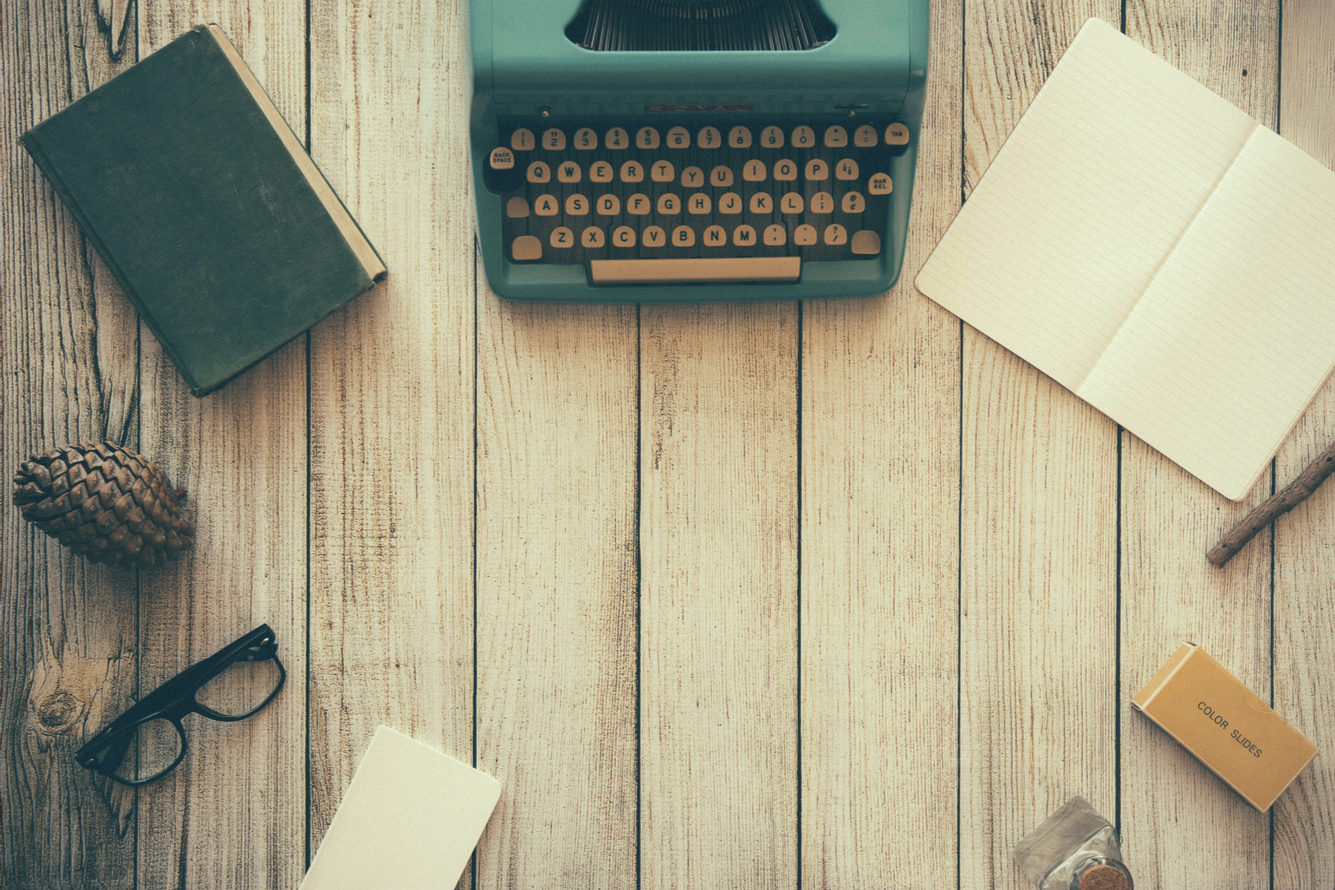
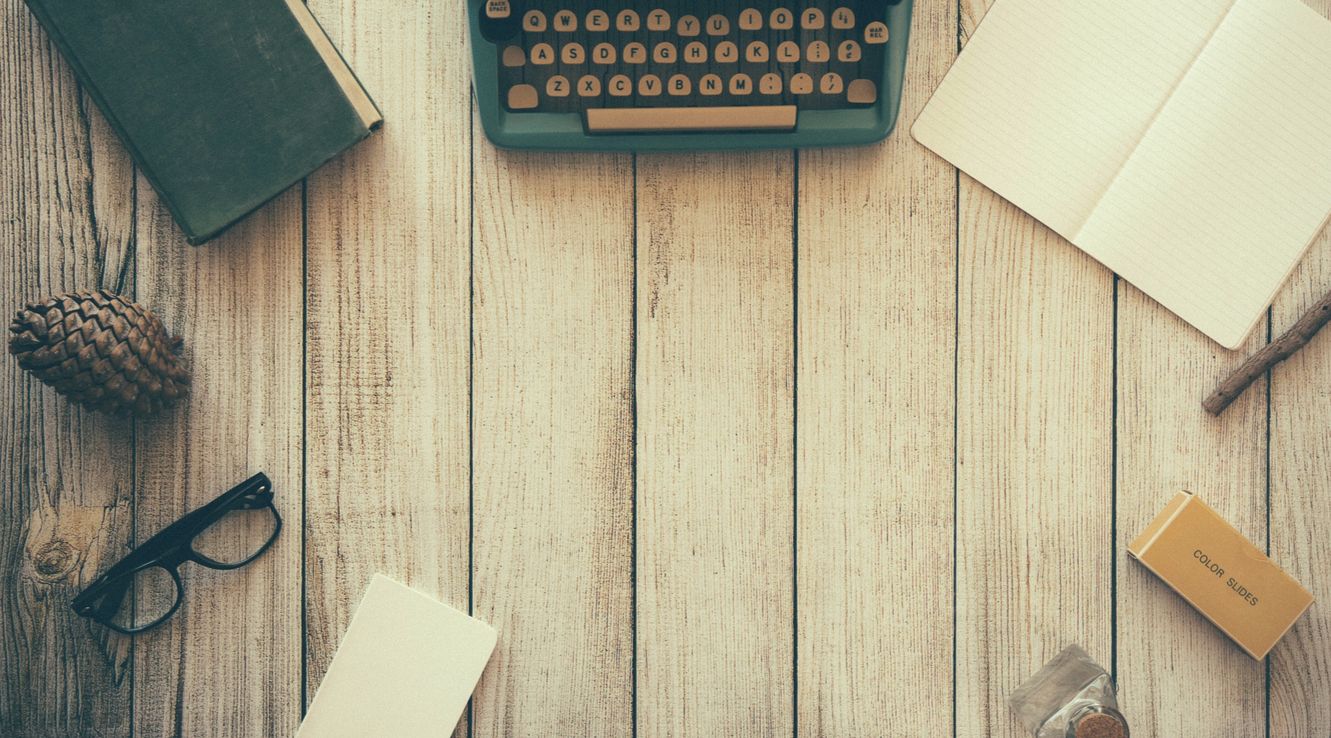
added links to move portfolio to top and adjusted size of background image

diff --git a/index.html b/index.html
@@ -7,6 +7,7 @@
         <link href="assets/css/style.css" rel="stylesheet" type="text/css">
         <link rel="stylesheet" href="https://stackpath.bootstrapcdn.com/bootstrap/4.3.1/css/bootstrap.min.css" integrity="sha384-ggOyR0iXCbMQv3Xipma34MD+dH/1fQ784/j6cY/iJTQUOhcWr7x9JvoRxT2MZw1T" crossorigin="anonymous">
         <script src="https://kit.fontawesome.com/4439e3b362.js" crossorigin="anonymous"></script>
+        <link rel="stylesheet" href="https://cdnjs.cloudflare.com/ajax/libs/animate.css/3.7.2/animate.min.css">
     </head>
 
     <body>
@@ -42,7 +43,6 @@
             </div>
         </nav>
         <header id="home" class="row header align-items-center">
-           
             <div class="col-sm-8 intro">
                 <h1>Jamie Kook</h1>
                 <div class="line"></div>
@@ -51,55 +51,56 @@
                 <h5>kookjc6@gmail.com</h5>
                 <h5><a target="_blank" href="https://www.linkedin.com/in/jamie-kook-b7816770/">LinkedIn</a> | <a target="_blank" href="https://github.com/JamieKook">Github</a> </h5>
                 <div class="buttons m-2">
-                    <button><a href="/assets/Jamie Kook Resume.pdf" download="JamieKookResume">Download Resume</a></button>
-                    <!-- <button>Contact Me</button> -->
+                <button><a href="/assets/Jamie Kook Resume.pdf" download="JamieKookResume">Download Resume</a></button>
+                <!-- <button>Contact Me</button> -->
                 </div>      
             </div>
             <div class="col-sm-4 d-flex align-items-center justify-content-center"><img class="img-fluid headshot" src="assets/imgs/headshot.jpg"></div>
         </header>
-
         <div class="section about row">
             <div class="overlay d-flex align-items-center">
                 <div class="container">
                     <p>Web Developer coming from a background in science education and research. Experienced in creating a <a href="http://www.surgeuniverse.com/" target="_blank">web-hosted educational game</a>  that used theory and data-driven feedback in its effectiveness and clear presentation of information. Recently earned a certificate in Full-Stack Web Development from Vanderbilt University, acquiring a functional knowledge of HTML, CSS, Javascript, React.js, Node.js, and more. A great collaborator and communicator, having used my organizational and critical thinking skills to move projects forward both as a leader and as a team member. A quick learner who is always eager to tackle difficult problems and enjoys puzzling through a new challenge. Looking forward to developing new web technologies, utilizing my background and technical skills, and adapting along the way.</p>
+                    <button class="btn btn-light"><a href="#portfolio">Learn More</a></button>
                 </div>
             </div>
         </div>
+      
 
         <div class="section" id="portfolio">
             <h1>Portfolio</h1>
             <div id="port-desk">
                 <div class="row" id="port-paper">
                     <div class="col-2 d-flex align-items-center">
-                        <button class="btn switch"><i class="fas fa-chevron-left"></i></button>
+                        <button id="newProjects" class="btn switch"><i class="fas fa-chevron-left"></i></button>
                     </div>
                     <div class="col-8 projectContainer">
                         <div class="border-bottom border-dark m-2" id="project1">
                             <h2><a class= "link" target="_blank" href="https://jamiekook.github.io/WeatherDashboard/"><span class="title">Weather Dashboard</span></a></h2>
                             <i class="fas fa-cloud-sun"></i>
                             <p class="description m-0">Find a location's current weather and 5-day forecast.</p>
-                            <button id="weather" class="btn btn-dark m-1 portbtn">Learn More</button>
+                            <button id="weather" class="btn btn-dark m-1 portbtn"><a href="#portfolio" class="text-white">Learn More</a></button>
                         </div>
                         <div class="border-bottom border-dark m-2" id="project2">
                             <h2><a class= "link" target="_blank" href="https://jamiekook.github.io/DayPlanner/"><span class="title">Day Planner</span></a></h2>
                             <i class="fas fa-calendar-alt"></i>
                             <p class="description m-0">Plan out your work day.</p>
-                            <button id="planner" class="btn btn-dark m-1 portbtn">Learn More</button>
+                            <button id="planner" class="btn btn-dark m-1 portbtn"><a href="#portfolio" class="text-white">Learn More</a></button>
                         </div>
                         <div class="border-bottom border-dark m-2" id="project3">
                             <h2><a class= "link" target="_blank" href="https://jamiekook.github.io/TimedQuiz/"><span class="title">Timed Quiz</span></a></h2>
                             <i class="fas fa-brain"></i>
                             <p class="description m-0">Test your trivia knowledge</p>
-                            <button id="quiz" class="btn btn-dark m-1 portbtn">Learn More</button>
+                            <button id="quiz" class="btn btn-dark m-1 portbtn"><a href="#portfolio" class="text-white">Learn More</a></button>
                         </div>
                     </div>
                     <div class="col-2 d-flex align-items-center">
-                        <button class="btn switch"><i class="fas fa-chevron-right"></i></button>
+                        <button id="oldProjects" class="btn switch"><i class="fas fa-chevron-right"></i></button>
                     </div>
                     
                 </div>
                 <div id="port-more" hidden>
-                    <div id="port-cont" class="container p-5 text-left">
+                    <div id="port-cont" class="container p-5 text-left animated slideInUp">
                         <h2 id="port-title"></h2>
                         <p id="port-descript"></p>
                         <p id="port-role"></p>
@@ -108,7 +109,7 @@
                         <div class="text-center buttongroup m-5">
                             <button class="btn btn-dark m-1"><a target="_blank" href="" id="port-linkapp">View the application</a></button>
                             <button class="btn btn-dark m-1"><a target="_blank" href="" id="port-linkhub">View the repository</a></button>
-                            <button class="btn btn-dark m-1" id="back">Back to Portfolio</button>
+                            <button class="btn btn-dark m-1" id="back"><a href="#portfolio">Back to Portfolio</a></button>
                         </div>
                     </div>
                 </div>

diff --git a/assets/script.js b/assets/script.js
@@ -8,14 +8,12 @@ $('.popover-dismiss').popover({
 
 $(".portbtn").on("click", function(){
   $("#port-paper").hide();
-  $("#port-more").removeAttr("hidden");
-
   let objectName= $(this).attr("id")+"Object"; 
   objectName= eval(objectName);
   console.log(objectName); 
-  writePortfolioData(objectName); 
+  writePortfolioData(objectName);  
+  $("#port-more").removeAttr("hidden");
   $("#port-more").show(); 
-
 })
 
 $("#back").on("click", function(){
@@ -23,6 +21,7 @@ $("#back").on("click", function(){
   $("#port-more").hide(); 
 })
 
+let currentIndex=0; 
 let jobObject ={title: "Got Jobs", 
                   descript: "This web application searches user-selected cities for job postings and for data about the quality of life in that city. Users can save and view favorite jobs.",
                   role: "Collaborative project- coded all functions regarding the job search and map found in the script.js file.",
@@ -68,27 +67,31 @@ let quizObject= {title: "Timed Quiz",
 };
           
 let projectsArr= ["quiz", "planner", "weather", "job"]; 
+let projectsReverse= projectsArr.reverse(); 
 
-function listProjects(){
+function listProjects(index){
   debugger; 
-  let currentIndex=0; 
-  let projectsReverse= projectsArr.reverse(); 
+  currentIndex=index; 
   for (let i=1; i<4; i++){
-    let name = projectsReverse[currentIndex];
-    let object= name+ "Object"; 
-    object = eval(object);
-     
     let project= $("#project"+i); 
-    $(project).find(".link").attr("href", object.linkapp); 
-    $(project).find(".title").text(object.title);
-    $(project).find(".fas").attr("class", object.icon);
-    $(project).find(".description").text(object.shortd);
-    $(project).find(".btn").attr("id", name);
+    let name = projectsReverse[currentIndex];
+    if (name === undefined){
+      project.hide();   
+    } else {
+      project.show(); 
+      let object= name+ "Object"; 
+      object = eval(object);
+      $(project).find(".link").attr("href", object.linkapp); 
+      $(project).find(".title").text(object.title);
+      $(project).find(".fas").attr("class", object.icon);
+      $(project).find(".description").text(object.shortd);
+      $(project).find(".btn").attr("id", name);  
+    }
     currentIndex++; 
   }
 }
 
-listProjects(); 
+listProjects(0); 
 
 function writePortfolioData(objectName){
   $("#port-title").text(objectName.title);
@@ -99,3 +102,23 @@ function writePortfolioData(objectName){
   $("#port-linkapp").attr("href",objectName.linkapp);
   $("#port-linkhub").attr("href",objectName.linkhub);
 }
+
+$("#oldProjects").on("click", function(){
+  debugger; 
+  if (currentIndex> projectsArr.length) {
+    listProjects(0); 
+  } else{
+    listProjects(currentIndex);
+  }
+
+})
+
+
+$("#newProjects").on("click", function(){
+  debugger; 
+  let index= currentIndex-6; 
+  if (index < 0) {
+    index= projectsArr.length-3; 
+  } 
+  listProjects(index); 
+})

diff --git a/assets/css/style.css b/assets/css/style.css
@@ -9,6 +9,7 @@
 * {
     box-sizing: border-box; 
 }
+
 p{
     font-size: 1.25rem;
 }
@@ -19,6 +20,30 @@ body {
     line-height: 150%;
 }
 
+h1{
+    font-size: 40px; 
+}
+
+.container {
+    width: 80%;
+    margin: 30px auto;
+    padding: 50px; 
+}
+
+.section {
+    position: relative;
+    text-align: center; 
+}
+
+.section h1 {
+    background-color: #CBE6EA;
+    margin-bottom: 20px;  
+    width: 100%; 
+    padding: 50px; 
+    margin-top: 20px; 
+}
+
+/* About Me styling- intros and about */
 .intro {
     background-color: #CBE6EA;
     padding: 30px; 
@@ -34,13 +59,16 @@ body {
     color: darkgoldenrod;
 
 }
-h1{
-    font-size: 40px; 
+
+.line {
+    border-top: 3px solid #032f4d; 
+    width: 10%; 
+    margin: 0 auto; 
 }
 
 button {
     background-color:  #CBE6EA; 
-    border: 2px solid #448B96; 
+    border: 2px solid #032f4d; 
     padding: 10px; 
     margin: 10px; 
     font-size: 15px; 
@@ -48,12 +76,6 @@ button {
 
 button a{
     color: black; 
-}
-
-.line {
-    border-top: 3px solid #8A9AA8; 
-    width: 10%; 
-    margin: 0 auto; 
 }
 
 .header {
@@ -69,13 +91,19 @@ button a{
     min-height: 450px; 
     margin-top: 20px; 
    margin-bottom: 20px; 
+   overflow: scroll; 
 }
 
+.about button a {
+    color: #032f4d;
+}
+
+/* Styling for portfolio */
 #port-desk{
     background-image: url(/assets/imgs/portfolio.jpg);
     background-size: cover; 
     background-repeat: no-repeat;
-    height: 900px; 
+    min-height: 1000px;  
     background-position: center;
     display: flex; 
     justify-content: center;
@@ -108,7 +136,7 @@ button a{
 #port-paper{
     margin: 0 auto; 
     position: absolute; 
-    top: 48%; 
+    top: 38%; 
 }
 
 #port-paper .switch {
@@ -147,33 +175,7 @@ button a{
 
 }
 
-#contact{
-    background-image: url(/assets/imgs/forest.jpg);
-    background-size: cover;
-    background-position: bottom; 
-    height: 600px; 
-    padding-bottom: 100px; 
- 
-}
-
-.container {
-    width: 80%;
-    margin: 30px auto;
-    padding: 50px; 
-}
-
-.section {
-    position: relative;
-    text-align: center; 
-}
-
-.section h1 {
-    background-color: #CBE6EA;
-    margin-bottom: 20px;  
-    width: 100%; 
-    padding: 50px; 
-    margin-top: 20px; 
-}
+/* Styling for Education */
 
 .ed {
     padding: 30px; 
@@ -205,6 +207,7 @@ button a{
     height: 100px; 
 }
 
+/* Styling for skills section  */
 .ss{
     background-color: #CBE6EA;
     border: white thick solid; 
@@ -259,4 +262,19 @@ button a{
 .software{
     background-image: url(/assets/imgs/software.jpg);
     background-size: cover;
+}
+
+.popover {
+    font-size: 1.75rem; 
+}
+
+/* Styling for Contact section */
+
+#contact{
+    background-image: url(/assets/imgs/forest.jpg);
+    background-size: cover;
+    background-position: bottom; 
+    height: 600px; 
+    padding-bottom: 100px; 
+ 
 }
